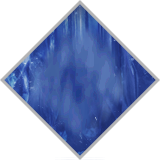
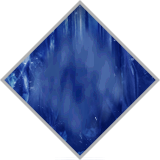
Handle strand subclass

diff --git a/src/app/inventory/subclass.ts b/src/app/inventory/subclass.ts
@@ -1,119 +1,22 @@
-import { D2ManifestDefinitions } from 'app/destiny2/d2-definitions';
+import { damageNamesByEnum } from 'app/search/search-filter-values';
 import { getFirstSocketByCategoryHash } from 'app/utils/socket-utils';
-import { DamageType, DestinyClass } from 'bungie-api-ts/destiny2';
+import { DamageType } from 'bungie-api-ts/destiny2';
 import { emptyPlugHashes } from 'data/d2/empty-plug-hashes';
-import {
-  ItemCategoryHashes,
-  PlugCategoryHashes,
-  SocketCategoryHashes,
-} from 'data/d2/generated-enums';
+import { ItemCategoryHashes, SocketCategoryHashes } from 'data/d2/generated-enums';
 import subclassArc from 'images/subclass-arc.png';
 import subclassSolar from 'images/subclass-solar.png';
-import subclassStasisAlt from 'images/subclass-stasis-alt.png';
 import subclassStasis from 'images/subclass-stasis.png';
-import subclassVoidAlt from 'images/subclass-void-alt.png';
+import subclassStrand from 'images/subclass-strand.png';
 import subclassVoid from 'images/subclass-void.png';
-import memoizeOne from 'memoize-one';
+import _ from 'lodash';
 import { DimItem, PluggableInventoryItemDefinition } from './item-types';
-
-interface SubclassInfo {
-  damageType: DamageType;
-  characterClass: DestinyClass;
-}
-function subclass(damageType: DamageType, characterClass: DestinyClass): SubclassInfo {
-  return {
-    damageType,
-    characterClass,
-  };
-}
-
-const subclassInfoByHash: Record<number, SubclassInfo> = {
-  // Subclass 3.0
-  873720784: subclass(DamageType.Stasis, DestinyClass.Hunter), // Revenant (v3)
-  613647804: subclass(DamageType.Stasis, DestinyClass.Titan), // Behemoth (v3)
-  3291545503: subclass(DamageType.Stasis, DestinyClass.Warlock), // Shadebinder (v3)
-  2453351420: subclass(DamageType.Void, DestinyClass.Hunter), // Nightstalker (v3)
-  2842471112: subclass(DamageType.Void, DestinyClass.Titan), // Sentinel (v3)
-  2849050827: subclass(DamageType.Void, DestinyClass.Warlock), // Voidwalker (v3)
-  2240888816: subclass(DamageType.Thermal, DestinyClass.Hunter), // Gunslinger (v3)
-  2550323932: subclass(DamageType.Thermal, DestinyClass.Titan), // Sunbreaker (v3)
-  3941205951: subclass(DamageType.Thermal, DestinyClass.Warlock), // Dawnblade (v3)
-  2328211300: subclass(DamageType.Arc, DestinyClass.Hunter), // Arcstrider (v3)
-  2932390016: subclass(DamageType.Arc, DestinyClass.Titan), // Striker (v3)
-  3168997075: subclass(DamageType.Arc, DestinyClass.Warlock), // Stormcaller (v3)
-};
-
-interface SubclassPlugCategory {
-  /** The item hashes of all subclasses that can insert plugs of this category. */
-  compatibleSubclassHashes: number[];
-  /**
-   * The socket category that plugs of this category can be inserted into e.g. abilities, fragments etc.
-   * If plugs of this category can be inserted into multiple sockets with differing socket category hashes,
-   * this will be set to null.
-   */
-  socketCategoryHash: SocketCategoryHashes | null;
-  /**
-   * The damage type of the subclasses that plugs of this category can be inserted into.
-   * If plugs of this category can be inserted into multiple subclasses with differing damage types, this
-   * will be set to null.
-   */
-  damageType: DamageType | null;
-}
-
-export const getSubclassPlugCategories = memoizeOne((defs: D2ManifestDefinitions) => {
-  const results = new Map<PlugCategoryHashes, SubclassPlugCategory>();
-  for (const [itemHashStr, subclassInfo] of Object.entries(subclassInfoByHash)) {
-    const subclassHash = parseInt(itemHashStr, 10);
-    const def = defs.InventoryItem.get(subclassHash);
-    if (!def.sockets) {
-      continue;
-    }
-    for (const socketEntry of def.sockets.socketEntries) {
-      const socketType = defs.SocketType.get(socketEntry.socketTypeHash);
-      const socketCategoryHash = socketType.socketCategoryHash;
-      for (const whitelistedPlugCategory of socketType.plugWhitelist) {
-        const plugCategoryHash = whitelistedPlugCategory.categoryHash;
-        const plugCategory = results.get(plugCategoryHash);
-        if (plugCategory) {
-          plugCategory.compatibleSubclassHashes.push(subclassHash);
-
-          /*
-          If there are conflicting damage types or socket categories, reset back to null. We assume that
-          the caller can't ascertain anything useful in these cases.
-          */
-          if (plugCategory.damageType !== subclassInfo.damageType) {
-            plugCategory.damageType = null;
-          }
-          if (plugCategory.socketCategoryHash !== socketCategoryHash) {
-            plugCategory.socketCategoryHash = null;
-          }
-        } else {
-          results.set(plugCategoryHash, {
-            compatibleSubclassHashes: [subclassHash],
-            damageType: subclassInfo.damageType,
-            socketCategoryHash,
-          });
-        }
-      }
-    }
-  }
-  return results;
-});
 
 const baseImagesByDamageType: Partial<Record<DamageType, string>> = {
   [DamageType.Arc]: subclassArc,
   [DamageType.Thermal]: subclassSolar,
   [DamageType.Void]: subclassVoid,
   [DamageType.Stasis]: subclassStasis,
-};
-
-/*
-These alternate base images are preferred for Subclass 3.0 as they account for the subtle gradient background
-that the super icons include.
-*/
-const altBaseImagesByDamageType: Partial<Record<DamageType, string>> = {
-  [DamageType.Void]: subclassVoidAlt,
-  [DamageType.Stasis]: subclassStasisAlt,
+  [DamageType.Strand]: subclassStrand,
 };
 
 interface SubclassIconInfo {
@@ -121,29 +24,26 @@ interface SubclassIconInfo {
   super: string;
 }
 export function getSubclassIconInfo(item: DimItem): SubclassIconInfo | undefined {
-  const subclassInfo = subclassInfoByHash[item.hash];
-  if (!subclassInfo) {
-    return undefined;
-  }
-  const base =
-    altBaseImagesByDamageType[subclassInfo.damageType] ??
-    baseImagesByDamageType[subclassInfo.damageType];
-  if (base && item.sockets) {
+  if (item.sockets) {
     const superSocket = getFirstSocketByCategoryHash(item.sockets, SocketCategoryHashes.Super);
-    const superIcon = superSocket?.plugged?.plugDef?.displayProperties?.icon;
+    const superPlug = superSocket?.plugged?.plugDef;
+    const superIcon = superPlug?.displayProperties?.icon;
     if (superIcon) {
-      return {
-        base,
-        super: superIcon,
-      };
+      const damageType = getDamageTypeForSubclassPlug(superPlug);
+      if (damageType && baseImagesByDamageType[damageType]) {
+        const base = baseImagesByDamageType[damageType];
+        return {
+          base: base,
+          super: superIcon,
+        };
+      }
     }
   }
 }
 
-export function getDamageTypeForSubclassPlug(
-  defs: D2ManifestDefinitions,
-  item: PluggableInventoryItemDefinition
-) {
+const nameToDamageType = _.invert(damageNamesByEnum);
+
+export function getDamageTypeForSubclassPlug(item: PluggableInventoryItemDefinition) {
   // ignore empty plugs because they'll be present across all subclasses
   if (emptyPlugHashes.has(item.hash)) {
     return null;
@@ -154,10 +54,10 @@ export function getDamageTypeForSubclassPlug(
     return null;
   }
 
-  const subclassPlugCategory = getSubclassPlugCategories(defs).get(item.plug.plugCategoryHash);
-  if (subclassPlugCategory) {
-    return subclassPlugCategory.damageType;
+  for (const name in nameToDamageType) {
+    if (item.plug.plugCategoryIdentifier.includes(name)) {
+      return parseInt(nameToDamageType[name], 10);
+    }
   }
-
   return null;
 }

diff --git a/src/app/inventory/ItemIcon.tsx b/src/app/inventory/ItemIcon.tsx
@@ -1,7 +1,5 @@
-import { D2ManifestDefinitions } from 'app/destiny2/d2-definitions';
 import BungieImage, { bungieBackgroundStyle } from 'app/dim-ui/BungieImage';
 import BucketIcon from 'app/dim-ui/svgs/BucketIcon';
-import { useD2Definitions } from 'app/manifest/selectors';
 import { d2MissingIcon } from 'app/search/d2-known-values';
 import { errorLog } from 'app/utils/log';
 import { isModCostVisible } from 'app/utils/socket-utils';
@@ -98,7 +96,6 @@ export function DefItemIcon({
   className?: string;
   borderless?: boolean;
 }) {
-  const defs = useD2Definitions();
   if (!itemDef) {
     errorLog('temp-deficon', new Error('DefItemIcon was called with a missing def'));
     return null;
@@ -119,7 +116,7 @@ export function DefItemIcon({
       !itemDef.plug &&
       itemDef.inventory && [itemTierStyles[itemDef.inventory.tierType]]
   );
-  const energyCost = defs && getModCostInfo(itemDef, defs);
+  const energyCost = getModCostInfo(itemDef);
 
   const iconOverlay = itemDef.iconWatermark || itemDef.iconWatermarkShelved || undefined;
 
@@ -144,8 +141,8 @@ export function DefItemIcon({
 /**
  * given a mod definition or hash, returns its energy cost if it should be shown
  */
-function getModCostInfo(mod: DestinyInventoryItemDefinition, defs: D2ManifestDefinitions) {
-  if (mod?.plug && isModCostVisible(defs, mod.plug)) {
+function getModCostInfo(mod: DestinyInventoryItemDefinition) {
+  if (mod?.plug && isModCostVisible(mod.plug)) {
     return mod.plug.energyCost.energyCost;
   }
 

diff --git a/src/app/utils/socket-utils.ts b/src/app/utils/socket-utils.ts
@@ -1,10 +1,8 @@
-import { D2ManifestDefinitions } from 'app/destiny2/d2-definitions';
 import {
   DimItem,
   DimSocketCategory,
   PluggableInventoryItemDefinition,
 } from 'app/inventory/item-types';
-import { getSubclassPlugCategories } from 'app/inventory/subclass';
 import {
   DestinyItemPlugDefinition,
   DestinySocketCategoryStyle,
@@ -241,19 +239,15 @@ export const subclassAbilitySocketCategoryHashes: SocketCategoryHashes[] = [
 ];
 
 export function isModCostVisible(
-  defs: D2ManifestDefinitions,
   plug: DestinyItemPlugDefinition
 ): plug is WithRequiredProperty<DestinyItemPlugDefinition, 'energyCost'> {
   // hide cost if it's less than 1
   if ((plug.energyCost?.energyCost ?? 0) < 1) {
     return false;
   }
-
-  // hide cost for Subclass 3.0 fragments as these are currently always set to 1
-  const subclassPlugCategory = getSubclassPlugCategories(defs).get(plug.plugCategoryHash);
   if (
-    subclassPlugCategory?.socketCategoryHash &&
-    fragmentSocketCategoryHashes.includes(subclassPlugCategory.socketCategoryHash)
+    plug.plugCategoryIdentifier.endsWith('.fragments') ||
+    plug.plugCategoryIdentifier.endsWith('.trinkets')
   ) {
     return false;
   }

diff --git a/src/app/item-popup/PlugTooltip.tsx b/src/app/item-popup/PlugTooltip.tsx
@@ -195,9 +195,8 @@ export function PlugTooltip({
   );
 
   const isPluggable = isPluggableItem(def);
-  const energyCost =
-    isPluggable && defs && isModCostVisible(defs, def.plug) ? def.plug.energyCost : null;
-  const subclassDamageType = isPluggable && defs && getDamageTypeForSubclassPlug(defs, def);
+  const energyCost = isPluggable && isModCostVisible(def.plug) ? def.plug.energyCost : null;
+  const subclassDamageType = isPluggable && getDamageTypeForSubclassPlug(def);
 
   const isInTooltip = useTooltipCustomization({
     getHeader: useCallback(() => def.displayProperties.name, [def.displayProperties.name]),
